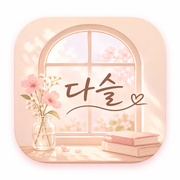
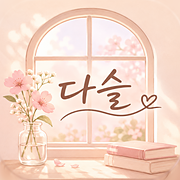
다슬의 이야기 아이콘 바깥 여백 제거해 꽉 찬 크롭으로 개선

diff --git a/index.html b/index.html
@@ -8,11 +8,11 @@
 
 <!-- [파비콘 설정] 탭 아이콘은 새 일러스트(icon.png)를 크기별로 경량화한 파일로 지정 -->
 <!-- [파비콘 설정] Vercel 도메인(daseul-life.vercel.app) 기준 절대 URL 사용 — 끝 슬래시 없이 긁는 외부 크롤러(스레드 등)가 루트 /favicon.ico를 요청해 404가 나지 않도록 -->
-<link rel="icon" href="https://daseul-life.vercel.app/favicon.ico?v=4" sizes="any">
-<link rel="shortcut icon" href="https://daseul-life.vercel.app/favicon.ico?v=4">
-<link rel="icon" type="image/png" sizes="32x32" href="https://daseul-life.vercel.app/images/favicon-32.png?v=4">
-<link rel="icon" type="image/png" sizes="192x192" href="https://daseul-life.vercel.app/images/icon.png?v=4">
-<link rel="apple-touch-icon" sizes="180x180" href="https://daseul-life.vercel.app/images/apple-touch-icon.png?v=4">
+<link rel="icon" href="https://daseul-life.vercel.app/favicon.ico?v=5" sizes="any">
+<link rel="shortcut icon" href="https://daseul-life.vercel.app/favicon.ico?v=5">
+<link rel="icon" type="image/png" sizes="32x32" href="https://daseul-life.vercel.app/images/favicon-32.png?v=5">
+<link rel="icon" type="image/png" sizes="192x192" href="https://daseul-life.vercel.app/images/icon.png?v=5">
+<link rel="apple-touch-icon" sizes="180x180" href="https://daseul-life.vercel.app/images/apple-touch-icon.png?v=5">
 
 <meta
   name="description"
